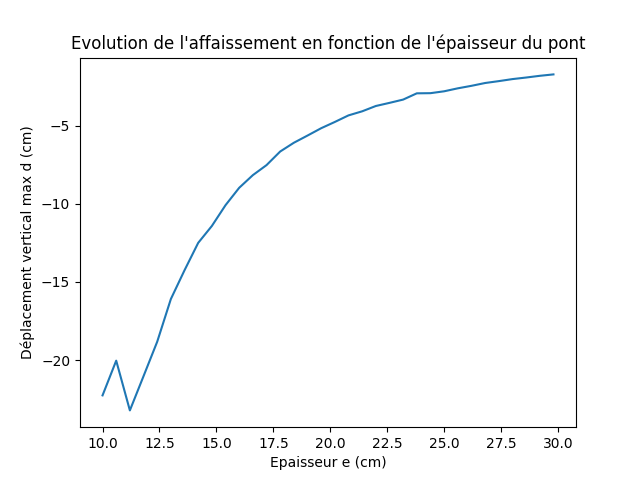
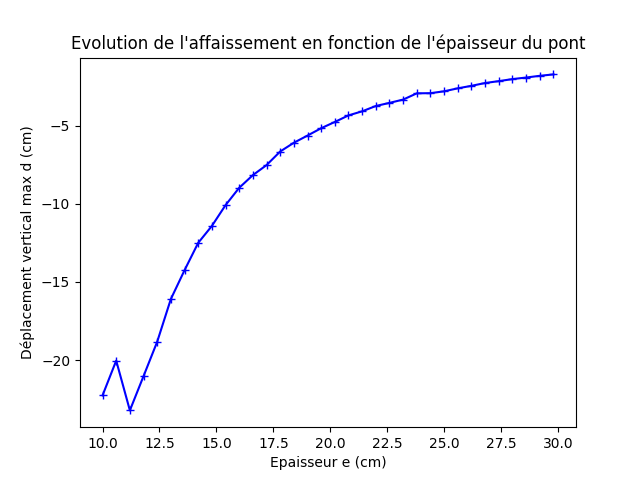
avancement

diff --git a/formulation_variationnelle.tex b/formulation_variationnelle.tex
@@ -65,7 +65,10 @@ $$\int_\Omega v_i \div \vec{\sigma_i} +  \int_\Omega v_i \rho g_i = 0$$
 
 On réalise une intégration par partie selon la formule de Green, car $\vec{\sigma_i} \in \mathcal{C}^1(\bar{\Omega})^3$ et $v_i \in \mathcal{C}^1(\bar{\Omega})$ :
 
-$$-\int_{\Omega} \vec{\sigma_i} \cdot \grad v_i + \int_{\Gamma} v_i (\vec{\sigma_i} \cdot \vec{n}) + \int_\Omega v_i \rho g_i = 0$$
+
+\begin{equation}\label{green}
+    -\int_{\Omega} \vec{\sigma_i} \cdot \grad v_i + \int_{\Gamma} v_i (\vec{\sigma_i} \cdot \vec{n}) + \int_\Omega v_i \rho g_i = 0
+\end{equation}
 
 On injecte les conditions de Neumann et de Dirichlet dans l'équation : %+conditions de dirichlet 
 
@@ -77,6 +80,22 @@ On injecte les conditions de Neumann et de Dirichlet dans l'équation : %+condit
 \end{equation}
 
 Sommons maintenant les trois équations pour chaque $i \in \{1,2,3\}$.
+
+En utilisant la convention de sommation d'Einstein (les indices répétés sont sommés, de $1$ à $3$), on remarque que :
+$$
+\vec{\sigma_i} \cdot \grad v_i = \sigma_{ij} \frac{\partial v_i}{\partial x_j}
+$$
+puis que, en notant $\delta$ le symbole de Kronecker et en utilisant les propriétés de la trace :
+$$
+\sigma_{ij} = \lambda \Tr(\grad \vec{u}) \delta_{ji} + \mu (\frac{\partial u_i}{\partial x_j} + \frac{\partial u_j}{\partial x_i})
+$$
+
+On utilise le fait que $\Tr(\grad \vec{u}) = \div \vec{u}$ pour arriver à 
+
+$$
+\vec{\sigma_i} \cdot \grad v_i = \lambda \div \vec{u} \div \vec{v} + \mu (\frac{\partial u_i}{\partial x_j} + \frac{\partial u_j}{\partial x_i})\frac{\partial v_i}{\partial x_j}
+$$
+%(\delta_{ji} \frac{\partial v_i}{\partial x_j}) 
 
 On définit :
 
@@ -92,20 +111,18 @@ $$
 \end{pmatrix}
 $$
 
-On peut développer tous les opérateurs avec les dérivées partielles pour après quelques calculs réécrire l'équation avec la fonction précédemment définie et la mettre sous la forme ci-dessous.
+On constate enfin, en développant, que :
+$$
+(\frac{\partial u_i}{\partial x_j} + \frac{\partial u_j}{\partial x_i})\frac{\partial v_i}{\partial x_j} = 2\epsilon(\vec{u})\epsilon(\vec{v})
+$$
 
 On arrive donc au problème suivant  :
 
 Trouver $\vec{u} \in \mathcal{C}^2(\bar{\Omega})^3$ tel que
-\begin{equation}
+\begin{equation}\label{varia}
     \begin{cases}
-        \displaystyle\int_{\Omega} (\lambda \div \vec{u} \div \vec{v} + 2\mu \epsilon(\vec{u})^T \epsilon(\vec{v})) - \int_{\Gamma_F} v f - \int_\Omega v_i \rho g = 0 \textrm{ } \forall \vec{v} \in \mathcal{C}^1(\bar{\Omega})^3\\
+        \displaystyle\int_{\Omega} (\lambda \div \vec{u} \div \vec{v} + 2\mu \epsilon(\vec{u})^T \epsilon(\vec{v})) - \int_{\Gamma_F} \vec{v} \cdot \vec{f} - \int_\Omega \rho \vec{v} \cdot \vec{g} = 0 \textrm{ } \forall \vec{v} \in \mathcal{C}^1(\bar{\Omega})^3\\
         \vec{u} = 0 \textrm{ sur } \Gamma_S
     \end{cases}
 \end{equation}
-
-% rapport scolaire ou non, pas de barème, faire qqch de bien
-%résultat numériques
-Intéressons-nous maintenant à la moitié de la structure. En effet, on remarque un plan de symétrie selon $x=0$, et parvenir à simuler uniquement une demi-structure permettrait de gagner en temps de calcul et en mémoire pour un même jeu de paramètres.
-
 

diff --git a/formulation_variationnelle_moitie.tex b/formulation_variationnelle_moitie.tex
@@ -1,0 +1,63 @@
+
+
+% rapport scolaire ou non, pas de barème, faire qqch de bien
+%résultat numériques
+Intéressons-nous maintenant à la moitié de la structure. 
+
+En effet, on remarque un plan de symétrie selon $x=0$ (passant par P), et parvenir à simuler uniquement une demi-structure permettrait de gagner en temps de calcul et en mémoire pour un même jeu de paramètres.
+
+On s'intéresse à la partie droite du pont. On note $\Gamma_B$ la surface du bord correspondant à la tranche du pont, à l'endroit de la coupure.
+
+On souhaite déterminer les nouvelles conditions aux limites pour pouvoir obtenir la formulation variationnelle de ce problème.
+
+Les conditions sont inchangées sauf sur $\Gamma_B$.
+
+Tout d'abord, par symétrie, 
+$$\forall (x,y,z) \in \mathbb{R}^3,
+\begin{cases}
+ u_1(x,y,z) = - u_1(-x,y,z)\\
+ u_2(x,y,z) = u_2(-x,y,z)\\
+ u_3(x,y,z) = u_3(-x,y,z)
+\end{cases}
+$$
+
+En évaluant en $x=0$, il vient
+$$\forall (y,z) \in \mathbb{R}^2, u_1(0,y,z) = 0$$
+
+On en déduit que :
+
+$$\forall (y,z) \in \mathbb{R}^2, \partial_2 u_1 (0, y, z) = \lim_{dy\rightarrow 0} \frac{u_1(0,y+dy,z)-u_1(0,y,z)}{dy}=0$$
+
+et que, puisque $u_2$ est une fonction paire par rapport à la variable $x$, $\partial_1 u_2$ est une fonction impaire par rapport à $x$, donc nulle en $0$. On déduit des propriétés similaires pour la variable $z$ au lieu de $y$.
+
+On a donc la condition suivante : $u_1 = 0$ sur $\Gamma_B$ et $\sigma \cdot \vec{e_1}=
+\begin{pmatrix}
+    \sigma_{xx}\\
+    \sigma_{yx}\\
+    \sigma_{zx}
+\end{pmatrix}$
+
+On n'a pas besoin de connaitre $\sigma_{xx}$ car on a déjà $u_1 = 0$ sur $\Gamma_B$. 
+
+D'après la loi de comportement et les propriétés précédemment démontrées, en notant $C$ une constante,
+ $$
+ \forall (y,z) \in \mathbb{R}^2,
+ \begin{cases}
+    \sigma_{yx}(0, y, z) = C (\partial_2 u_1 + \partial_1 u_2) = 0\\
+    \sigma_{zx}(0, y, z) = C (\partial_3 u_1 + \partial_1 u_3) = 0
+ \end{cases}
+$$
+
+En repartant de \ref{green}, on arrive au problème suivant, en notant $\Omega_m$ la moitié de la structure étudiée, et en restreignant $\Gamma_F$ et $\Gamma_S$ à $\Omega_m$ :
+
+Trouver $\vec{u} \in \mathcal{C}^2(\bar{\Omega_m})^3$ tel que
+\begin{equation}\label{moitie}
+    \begin{cases}
+        \displaystyle\int_{\Omega_m} (\lambda \div \vec{u} \div \vec{v} + 2\mu \epsilon(\vec{u})^T \epsilon(\vec{v})) - \int_{\Gamma_F} \vec{v} \cdot \vec{f} - \int_{\Omega_m} \rho \vec{v} \cdot \vec{g} = 0 \textrm{ } \forall \vec{v} \in \mathcal{C}^1(\bar{\Omega_m})^3\\
+        \vec{u} = 0 \textrm{ sur } \Gamma_S\\
+        u_1 = 0 \textrm{ sur } \Gamma_B
+    \end{cases}
+\end{equation}
+
+Pour prouver l'existence et l'unicité des solutions, nous pourrions utiliser le théorème de Lax-Milgram, après vérification des hypothèses.
+% relire schéma

diff --git a/main.tex b/main.tex
@@ -65,8 +65,16 @@
         \input{formulation_variationnelle.tex}
     \end{solution}
 
-    \section{Résolution à épaisseur fixée}
+    \begin{problem}{2}
+    Utilisons les propriétés de symétrie pour obtenir un problème sous forme variationnelle portant uniquement sur la moitié de la structure.
+    \end{problem}
+    
+    \begin{solution}   
+        \input{formulation_variationnelle_moitie.tex}
+    \end{solution}
 
+    \section{Résolution à épaisseur fixée}
+        \input{epaisseur_fixe.tex}
     \section{Optimisation de l'épaisseur}
 
     \subsection{Approximation graphique}
@@ -76,9 +84,11 @@
     \appendix
     \section {Code source}
 
-    Disponible sur ...
+    Le code source du programme écrit est disponible sur \url{https://github.com/florian6973/finite-elements-project}.
 
-    \lstinputlisting[language=FreeFem]{simulation-v2.edp}
+    On y trouve aussi l'ensemble des ressources utilisées pour la rédaction du rapport.
+
+    %\lstinputlisting[language=FreeFem]{simulation-v2.edp}
 
 
     %code + lien github

diff --git a/epaisseur_fixe.tex b/epaisseur_fixe.tex
@@ -1,0 +1,21 @@
+%marqueur aux points de données
+% courbe en dessous/en dessus / intervalle dichotomie / condition d'arrêt / eps essai-erreur
+
+Dans cette partie, nous résolvons le problème variationnel avec l'épaisseur fixée à $e=0.1$ m, à l'aide d'un programme FreeFem++.
+
+% link free fem
+
+\begin{problem}{3}
+    Modélisons le pont et maillons-le.
+\end{problem}
+
+
+\begin{solution}   
+    En suivant les indications de l'énoncé, nous avons commencé par réaliser les bordures, correctement "orientées" et "subdivisées", de la coupe du pont (selon l'axe $y$),
+    selon la méthode vue en cours sur les maillages.%faire varier n
+    Nous avons ensuite maillé la surface à l'aide de la fonction \emph{buildmesh} de FreeFem++.
+
+\end{solution}
+%optimisation temps
+
+% étude convergence

diff --git a/graph.py b/graph.py
@@ -13,7 +13,7 @@ def main():
             x.append(round(float(xt)*100, 2))
             y.append(round(float(yt)*100, 2))
     # plotting the points
-    plt.plot(x, y)
+    plt.plot(x, y, linestyle='-', marker='+', color='b')
     
     # naming the x axis
     plt.xlabel('Epaisseur e (cm)')

diff --git a/includes.tex b/includes.tex
@@ -17,6 +17,9 @@
 \usepackage{physics}
 \usepackage{amsfonts}
 \usepackage{float}
+\PassOptionsToPackage{hyphens}{url}\usepackage{hyperref}
+
+\usepackage{xurl}
 
 \renewcommand{\footrulewidth}{0.8pt}
 \hypersetup{
